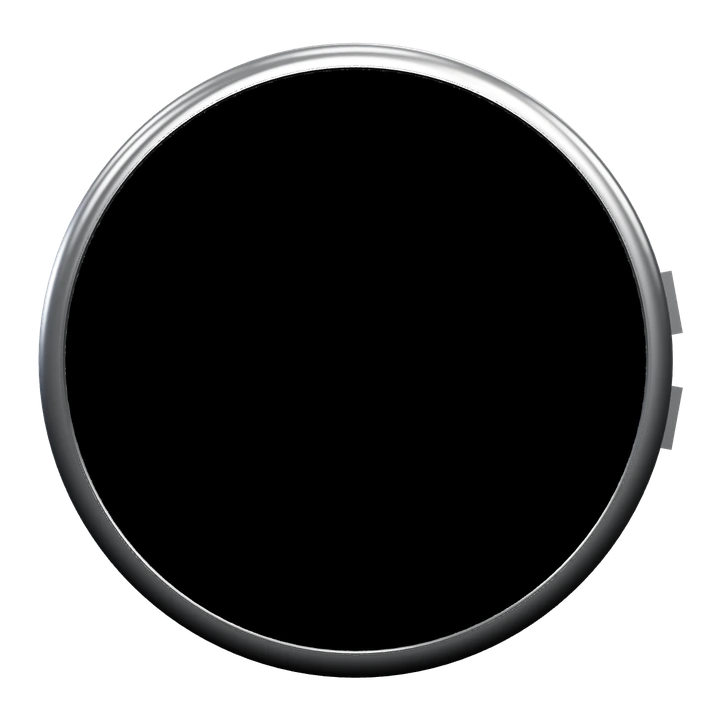
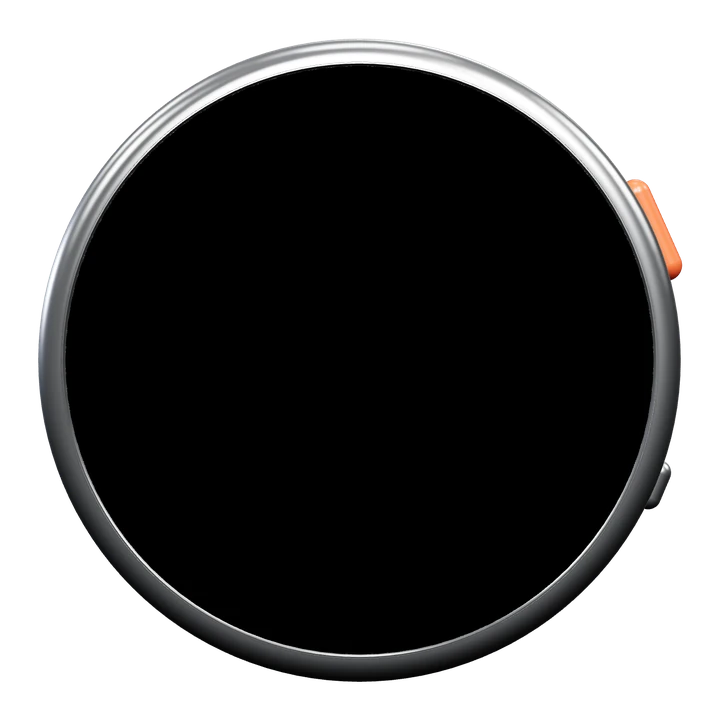
Publish meetbud.app (2026-11-04 19:51 UTC)

diff --git a/hero3d.js b/hero3d.js
@@ -5,14 +5,15 @@
  * If WebGL or three.js isn't there, the page keeps its photo (the .phone-photo fallback). */
 import * as THREE from 'three';
 import { RoomEnvironment } from 'three/addons/environments/RoomEnvironment.js';
+import { BUD, buildBud, light } from './bud3d.js?v=1';
 
 const K = window.Bud;
 const host = document.getElementById('phone3d');
 const REDUCED = matchMedia('(prefers-reduced-motion: reduce)').matches;
 
-// the phone, about an iPhone 15 (71.6 x 147.6 x 7.8 mm), and Bud below its camera
+// the phone, about an iPhone 15 (71.6 x 147.6 x 7.8 mm), and Bud below its camera (bud3d.js)
 const PHONE = { w: 71.6, h: 147.6, d: 7.8, r: 11.6, bevel: 1.6 };
-const BUD = { r: 27, d: 9.5, y: -6, screen: 0.905 };
+const BUD_Y = -6;
 
 function roundedRect(w, h, r) {
   const s = new THREE.Shape();
@@ -59,17 +60,8 @@ function start() {
   host.appendChild(renderer.domElement);
 
   const scene = new THREE.Scene();
-  const pmrem = new THREE.PMREMGenerator(renderer);
   // a bright room for the metal; glass and lenses take only a little of it (envMapIntensity)
-  scene.environment = pmrem.fromScene(new RoomEnvironment(), 0.03).texture;
-  const key = new THREE.DirectionalLight(0xffffff, 1.6);
-  key.position.set(140, 180, 260);
-  const rim = new THREE.DirectionalLight(0xdfeaff, 0.9);
-  rim.position.set(-220, 60, -120);
-  // a warm light close to the top right corner: the back glass falls off softly across its length
-  const glow = new THREE.PointLight(0xfff4ea, 26000, 0, 2);
-  glow.position.set(70, 120, 90);
-  scene.add(key, rim, glow, new THREE.HemisphereLight(0xf4f7ff, 0xe9dccb, 0.45));
+  light(THREE, renderer, scene, RoomEnvironment);
 
   const camera = new THREE.PerspectiveCamera(20, 1, 10, 2000);
   camera.position.set(0, 0, 520);
@@ -82,7 +74,6 @@ function start() {
   const bump = new THREE.MeshPhysicalMaterial({ color: 0xbad3e8, roughness: 0.08, metalness: 0, clearcoat: 1, clearcoatRoughness: 0.04, envMapIntensity: 0.9 });
   const ringMetal = new THREE.MeshPhysicalMaterial({ color: 0xc9d6e2, roughness: 0.14, metalness: 1, envMapIntensity: 1.2 });
   const lensGlass = new THREE.MeshPhysicalMaterial({ color: 0x05070b, roughness: 0.03, metalness: 0, clearcoat: 1, clearcoatRoughness: 0.02, envMapIntensity: 0.35 });
-  const budMetal = new THREE.MeshPhysicalMaterial({ color: 0xeef0f2, roughness: 0.24, metalness: 1, envMapIntensity: 1.1 });
 
   /* ------------------------------------------------------------- the phone */
   const phone = new THREE.Group();
@@ -99,7 +90,7 @@ function start() {
     b.position.set(x * (PHONE.w / 2 + 0.3), y, 0);
     phone.add(b);
   }
-  // the camera: a raised square with two lenses, a flash and a mic
+  // the camera: a raised square with two lenses and a flash
   const back = PHONE.d / 2;
   const cam = slab(28.5, 28.5, 7.2, 1.6, 0.5, [bump, bump]);
   cam.position.set(-PHONE.w / 2 + 6 + 14.25, PHONE.h / 2 - 6 - 14.25, back + 0.6);
@@ -115,37 +106,16 @@ function start() {
   }
   const flash = new THREE.Mesh(new THREE.CircleGeometry(2.3, 40), new THREE.MeshPhysicalMaterial({ color: 0xf3efe2, roughness: 0.25, clearcoat: 1 }));
   flash.position.set(cam.position.x + 6.6, cam.position.y + 6.4, back + 1.42);
-  const mic = new THREE.Mesh(new THREE.CircleGeometry(0.7, 24), lensGlass);
-  mic.position.set(cam.position.x - 6.4, cam.position.y - 0.2, back + 1.42);
-  phone.add(flash, mic);
+  phone.add(flash);
 
-  /* ------------------------------------------------------------- Bud */
-  const bud = new THREE.Group();
-  const R = BUD.r, D = BUD.d;
-  // the profile: flat on the phone, a softly curved side, a rounded lip up to the glass
-  const prof = [];
-  prof.push(new THREE.Vector2(0.01, 0));
-  prof.push(new THREE.Vector2(R - 2.2, 0));
-  for (let i = 0; i <= 12; i++) { const a = -Math.PI / 2 + (i / 12) * (Math.PI / 2); prof.push(new THREE.Vector2(R - 2.2 + 2.2 * Math.cos(a), 2.2 + 2.2 * Math.sin(a))); }
-  prof.push(new THREE.Vector2(R, D - 2.4));
-  for (let i = 0; i <= 14; i++) { const a = (i / 14) * (Math.PI / 2); prof.push(new THREE.Vector2(R - 2.4 + 2.4 * Math.cos(a), D - 2.4 + 2.4 * Math.sin(a))); }
-  prof.push(new THREE.Vector2(R * BUD.screen + 0.3, D));
-  prof.push(new THREE.Vector2(R * BUD.screen, D - 0.25));
-  const shell = new THREE.Mesh(new THREE.LatheGeometry(prof, 128), budMetal);
-  shell.rotation.x = Math.PI / 2;
-  bud.add(shell);
-  // its side buttons, like the prototype's
-  for (const a of [-0.18, 0.18]) {
-    const b = new THREE.Mesh(new THREE.BoxGeometry(1.2, 5.4, 2.4), budMetal);
-    b.position.set(Math.cos(a) * (R + 0.35), Math.sin(a) * (R + 0.35), D * 0.55);
-    b.rotation.z = a;
-    bud.add(b);
-  }
+  /* ------------------------------------------------------------- Bud (bud3d.js) */
+  const R = BUD.r;
   // the screen: the live face glows under glossy glass
   const faceHost = document.createElement('div');
-  faceHost.style.cssText = 'position:fixed;left:0;top:0;width:512px;height:512px;opacity:0;pointer-events:none;z-index:-1';
+  // (a 512 px face drawn out of sight: inside a box of no size, so it never widens the page)
+  faceHost.style.cssText = 'position:fixed;left:0;top:0;width:0;height:0;overflow:hidden;opacity:0;pointer-events:none;z-index:-1';
   const faceEl = document.createElement('div');
-  faceEl.style.cssText = 'width:100%;height:100%';
+  faceEl.style.cssText = 'width:512px;height:512px';
   faceHost.appendChild(faceEl);
   document.body.appendChild(faceHost);
   const face = new K.Screen(faceEl, { fps: 60, bloom: true, manual: true });
@@ -158,10 +128,8 @@ function start() {
   const screenMat = new THREE.MeshPhysicalMaterial({ color: 0x000000, emissive: 0xffffff, emissiveMap: tex, emissiveIntensity: 1,
     roughness: 0.04, metalness: 0, clearcoat: 1, clearcoatRoughness: 0.02, envMapIntensity: 0.18 });
   screenMat.toneMapped = false;
-  const screen = new THREE.Mesh(new THREE.CircleGeometry(R * BUD.screen, 96), screenMat);
-  screen.position.z = D - 0.24;
-  bud.add(screen);
-  bud.position.set(0, BUD.y, back);
+  const { group: bud, shell, screen } = buildBud(THREE, screenMat);
+  bud.position.set(0, BUD_Y, back);
   phone.add(bud);
   // where Bud sits on the glass: a soft contact shadow, a little toward the lower left
   const cc = document.createElement('canvas'); cc.width = cc.height = 256;
@@ -171,7 +139,7 @@ function start() {
   cg.fillStyle = cgr; cg.fillRect(0, 0, 256, 256);
   const contact = new THREE.Mesh(new THREE.PlaneGeometry(R * 2.42, R * 2.42),
     new THREE.MeshBasicMaterial({ map: new THREE.CanvasTexture(cc), transparent: true, depthWrite: false }));
-  contact.position.set(0, BUD.y, back + 0.06);
+  contact.position.set(0, BUD_Y, back + 0.06);
   phone.add(contact);
 
   // a soft shadow under it all, as a blurred disc (no ground plane to fight the page's sky)

diff --git a/next.css b/next.css
@@ -59,9 +59,9 @@ p { margin: 0; }
 .nav-links a:not(.pill):hover { color: var(--ink); }
 
 /* ---------------------------------------------------------------- the Bud */
-/* img/bud-3d.webp is Bud rendered from the hero's 3D model (hero3d.js, ?snap=bud), face on; its
- * screen is a circle at (49.359%, 50.034%) with radius 40.329% (img/bud-3d.json), where the live face
- * goes. The shadow is a pseudo-element, so the live canvas isn't filtered every frame. */
+/* img/bud-3d.webp is Bud rendered face on from the hero's own model (bud3d.js, by tools/bud-3d.html);
+ * its screen is a circle at (49.893%, 50.009%) with radius 40.828% (img/bud-3d.json), where the live
+ * face goes. The shadow is a pseudo-element, so the live canvas isn't filtered every frame. */
 .bud {
   --d: 300px;
   position: relative; display: block; flex: none; width: var(--d); aspect-ratio: 1; padding: 0; border: 0;
@@ -73,7 +73,7 @@ p { margin: 0; }
     0 calc(var(--d) * 0.015) calc(var(--d) * 0.03) rgba(30, 28, 24, 0.18);
 }
 .bud-glass {
-  position: absolute; left: 9.03%; top: 9.705%; width: 80.658%; height: 80.658%;
+  position: absolute; left: 9.065%; top: 9.181%; width: 81.656%; height: 81.656%;
   border-radius: 50%; overflow: hidden; background: #000;
 }
 .bud-screen { position: absolute; inset: 1.6%; border-radius: 50%; overflow: hidden; }
@@ -89,8 +89,9 @@ button.bud:active { transform: scale(0.97); }
 
 /* ---------------------------------------------------------------- hero */
 .hero {
-  position: relative; margin: 10px; border-radius: var(--r-xl); overflow: hidden;
-  min-height: min(980px, calc(100svh - 20px)); padding: clamp(96px, 13vh, 140px) var(--pad) 0;
+  /* full width from the top edge (the nav floats on the sky), rounded only where it meets the page */
+  position: relative; margin: 0 0 10px; border-radius: 0 0 var(--r-xl) var(--r-xl); overflow: hidden;
+  min-height: min(990px, calc(100svh - 10px)); padding: clamp(96px, 13vh, 140px) var(--pad) 0;
   display: flex; flex-direction: column; align-items: center; text-align: center;
   background:
     radial-gradient(60% 45% at 50% 98%, rgba(255, 244, 226, 0.95), transparent 70%),
@@ -195,7 +196,7 @@ footer { position: relative; overflow: hidden; padding: 72px 0 0; }
 .peek {
   --pd: clamp(60px, 7.2vw, 112px);
   display: flex; justify-content: center; align-items: flex-start; gap: clamp(10px, 1.5vw, 20px);
-  margin-top: 44px; height: calc(var(--pd) * 0.72);
+  margin-top: 72px; height: calc(var(--pd) * 0.72);
 }
 .peeker { position: relative; flex: none; margin-top: calc(var(--pd) * 0.66 * (1.08 - var(--s))); cursor: pointer;
   transform: translateY(120%); transition: transform 0.75s cubic-bezier(0.34, 1.56, 0.64, 1) calc(var(--i) * 45ms); }
@@ -207,8 +208,11 @@ footer { position: relative; overflow: hidden; padding: 72px 0 0; }
 }
 .peeker:nth-child(odd) .bud { animation-direction: alternate-reverse; }
 @keyframes peekbob { from { transform: translateY(3%) rotate(-4deg); } to { transform: translateY(-5%) rotate(4deg); } }
-.peeker:hover .bud, .peeker.hi .bud { translate: 0 -24%; }
-.peeker:hover + .peeker .bud, .peeker:has(+ .peeker:hover) .bud { translate: 0 -7%; }
+.peeker:hover .bud { translate: 0 -42%; }
+.peeker:hover + .peeker .bud, .peeker:has(+ .peeker:hover) .bud { translate: 0 -10%; }
+/* one says hi: up about half its height, a little past and back, a moment there, then down */
+.peeker.hi { animation: peekhi 2s cubic-bezier(0.3, 0.9, 0.4, 1); }
+@keyframes peekhi { 0% { translate: 0 0; } 20% { translate: 0 -56%; } 30% { translate: 0 -48%; } 78% { translate: 0 -48%; } 100% { translate: 0 0; } }
 .peeker.hop { animation: peekhop 0.62s cubic-bezier(0.3, 0.9, 0.4, 1); }
 @keyframes peekhop { 40% { translate: 0 -46%; } 70% { translate: 0 -10%; } }
 @media (prefers-reduced-motion: reduce) { .peeker .bud { animation: none; } .peeker { transition: none; } }
@@ -224,7 +228,7 @@ footer { position: relative; overflow: hidden; padding: 72px 0 0; }
 
 /* ---------------------------------------------------------------- phones */
 @media (max-width: 860px) {
-  .peek { --pd: 64px; height: calc(var(--pd) * 0.82); margin-top: 32px; }
+  .peek { --pd: 64px; height: calc(var(--pd) * 0.82); margin-top: 52px; }
   .nav-links a:not(.pill) { display: none; }
   .hero { min-height: auto; padding-top: 92px; }
   .hero h1 { max-width: 10ch; }

diff --git a/bud3d.js b/bud3d.js
@@ -1,0 +1,52 @@
+/* Bud in 3D (three.js), shared by the hero (hero3d.js) and by the picture of Bud the rest of the page
+ * uses (tools/bud-3d.html renders img/bud-3d.webp from this): the metal shell, the side buttons and
+ * the screen, and the studio light they are shown in. Sizes are in millimeters; Bud faces +z. */
+
+export const BUD = { r: 27, d: 9.5, screen: 0.905 };
+
+/** The room and lights the hero uses: a bright room for the metal, a key, a rim and a warm glow. */
+export function light(THREE, renderer, scene, RoomEnvironment) {
+  const pmrem = new THREE.PMREMGenerator(renderer);
+  scene.environment = pmrem.fromScene(new RoomEnvironment(), 0.03).texture;
+  const key = new THREE.DirectionalLight(0xffffff, 1.6);
+  key.position.set(140, 180, 260);
+  const rim = new THREE.DirectionalLight(0xdfeaff, 0.9);
+  rim.position.set(-220, 60, -120);
+  // a warm light close to the top right corner: glossy surfaces fall off softly across their length
+  const glow = new THREE.PointLight(0xfff4ea, 26000, 0, 2);
+  glow.position.set(70, 120, 90);
+  scene.add(key, rim, glow, new THREE.HemisphereLight(0xf4f7ff, 0xe9dccb, 0.45));
+}
+
+/** Bud: returns { group, shell, screen }. `screenMat` is the screen's material (the live face, or black). */
+export function buildBud(THREE, screenMat) {
+  const R = BUD.r, D = BUD.d;
+  const metal = new THREE.MeshPhysicalMaterial({ color: 0xeef0f2, roughness: 0.24, metalness: 1, envMapIntensity: 1.1 });
+  // the talk button's color: press it to talk, like a walkie-talkie's
+  const talk = new THREE.MeshPhysicalMaterial({ color: 0xff6a3d, roughness: 0.34, metalness: 0.05, clearcoat: 0.9, clearcoatRoughness: 0.18, envMapIntensity: 0.7 });
+  const group = new THREE.Group();
+  // the profile: flat on the phone, a softly curved side, a rounded lip up to the glass
+  const prof = [];
+  prof.push(new THREE.Vector2(0.01, 0));
+  prof.push(new THREE.Vector2(R - 2.2, 0));
+  for (let i = 0; i <= 12; i++) { const a = -Math.PI / 2 + (i / 12) * (Math.PI / 2); prof.push(new THREE.Vector2(R - 2.2 + 2.2 * Math.cos(a), 2.2 + 2.2 * Math.sin(a))); }
+  prof.push(new THREE.Vector2(R, D - 2.4));
+  for (let i = 0; i <= 14; i++) { const a = (i / 14) * (Math.PI / 2); prof.push(new THREE.Vector2(R - 2.4 + 2.4 * Math.cos(a), D - 2.4 + 2.4 * Math.sin(a))); }
+  prof.push(new THREE.Vector2(R * BUD.screen + 0.3, D));
+  prof.push(new THREE.Vector2(R * BUD.screen, D - 0.25));
+  const shell = new THREE.Mesh(new THREE.LatheGeometry(prof, 128), metal);
+  shell.rotation.x = Math.PI / 2;
+  group.add(shell);
+  // its side buttons, well apart: the long colored talk button above, a small metal one below
+  for (const [a, len, rad, mat] of [[0.42, 9.2, 1.35, talk], [-0.4, 4.4, 1.1, metal]]) {
+    const b = new THREE.Mesh(new THREE.CapsuleGeometry(rad, len - rad * 2, 8, 20), mat);
+    b.position.set(Math.cos(a) * (R + 0.15), Math.sin(a) * (R + 0.15), D * 0.52);
+    b.rotation.z = a;
+    group.add(b);
+  }
+  // the screen, just under the lip
+  const screen = new THREE.Mesh(new THREE.CircleGeometry(R * BUD.screen, 96), screenMat);
+  screen.position.z = D - 0.24;
+  group.add(screen);
+  return { group, shell, screen };
+}

diff --git a/next.js b/next.js
@@ -145,8 +145,8 @@
       const b = mount(w.firstChild, cfg, { fps: 24, follow: true });
       const feel = (st, ms) => { b.scr.set({ state: st }); clearTimeout(b.t); b.t = setTimeout(() => b.scr.set({ state: 'idle' }), ms); };
       w.addEventListener('pointerenter', () => feel('love', 1500));
-      w.addEventListener('click', () => { w.classList.remove('hop'); void w.offsetWidth; w.classList.add('hop'); feel('love', 1800); track('footer_bud', { look: name }); });
-      w.addEventListener('animationend', (e) => { if (e.animationName === 'peekhop') w.classList.remove('hop'); });
+      w.addEventListener('click', () => { w.classList.remove('hop', 'hi'); void w.offsetWidth; w.classList.add('hop'); feel('love', 1800); track('footer_bud', { look: name }); });
+      w.addEventListener('animationend', (e) => { if (e.animationName === 'peekhop') w.classList.remove('hop'); if (e.animationName === 'peekhi') w.classList.remove('hi'); });
       return { w, feel };
     });
     // they pop up when the footer shows, and while it does, one on screen pops up to say hi now and then
@@ -157,11 +157,10 @@
       clearInterval(hi);
       if (!on || REDUCED) return;
       hi = setInterval(() => {
-        const seen = crowd.filter((c) => { const r = c.w.getBoundingClientRect(); return r.left > 0 && r.right < innerWidth && !c.w.matches(':hover'); });
+        const seen = crowd.filter((c) => { const r = c.w.getBoundingClientRect(); return r.left > 0 && r.right < innerWidth && !c.w.matches(':hover') && !c.w.classList.contains('hi') && !c.w.classList.contains('hop'); });
         const c = seen[Math.floor(Math.random() * seen.length)];
         if (!c) return;
-        c.w.classList.add('hi'); c.feel(Math.random() < 0.5 ? 'hello' : 'love', 1600);
-        setTimeout(() => c.w.classList.remove('hi'), 1500);
+        c.w.classList.add('hi'); c.feel(Math.random() < 0.5 ? 'hello' : 'love', 1800);
       }, 2200);
     }, { threshold: 0.15 }).observe(peek);
   }

diff --git a/index.html b/index.html
@@ -19,9 +19,9 @@
 <link rel="preconnect" href="https://fonts.googleapis.com">
 <link rel="preconnect" href="https://fonts.gstatic.com" crossorigin>
 <link rel="stylesheet" href="https://fonts.googleapis.com/css2?family=Figtree:wght@400..900&family=Nunito:wght@800..900&display=swap">
-<link rel="stylesheet" href="next.css?v=15">
+<link rel="stylesheet" href="next.css?v=16">
 <link rel="stylesheet" href="scenes.css?v=5">
-<link rel="stylesheet" href="wardrobe.css?v=3">
+<link rel="stylesheet" href="wardrobe.css?v=4">
 <script>
   // the 3D phone needs WebGL 2; without it the page shows the photo instead (hero3d.js)
   try { if (document.createElement('canvas').getContext('webgl2')) document.documentElement.classList.add('js3d'); } catch (e) {}
@@ -60,7 +60,6 @@
 
   <section class="scenes" id="scenes" aria-labelledby="app-title">
     <div class="head">
-      <span class="kicker">The Bud app</span>
       <h2 id="app-title">Gets things done. Brings friends along.</h2>
       <p>Hand real work to your agents, and stay close to the people you love, from one little face.</p>
     </div>
@@ -194,7 +193,6 @@
 
   <section class="block wd" id="wardrobe" aria-labelledby="wd-title">
     <div class="head">
-      <span class="kicker">Make it yours</span>
       <h2 id="wd-title">A friend with a wardrobe.</h2>
       <p>Dress Bud up in the app, mix and match, and find new pieces at places around the world. On birthdays and holidays, Bud dresses up on its own.</p>
     </div>
@@ -455,10 +453,10 @@
 <script src="../lib/device.js"></script>
 <script src="../lib/view3d.js"></script>
 <!-- end of lib/files.json -->
-<script src="next.js?v=13"></script>
+<script src="next.js?v=14"></script>
 <script src="icons.js?v=2"></script>
 <script src="scenes.js?v=6"></script>
 <script src="wardrobe.js?v=5"></script>
-<script type="module" src="hero3d.js?v=18"></script>
+<script type="module" src="hero3d.js?v=20"></script>
 </body>
 </html>

diff --git a/wardrobe.css b/wardrobe.css
@@ -4,7 +4,7 @@
 .wd-room {
   display: grid; grid-template-columns: minmax(0, 1fr) minmax(0, 1.08fr); gap: clamp(24px, 4vw, 56px); align-items: center;
   width: min(1080px, 100% - var(--pad) * 2); margin: 0 auto; padding: clamp(26px, 4vw, 52px);
-  border-radius: var(--r-xl); background: linear-gradient(160deg, #eef3fa 0%, #f7f3ee 60%, #fbf4ea 100%);
+  border-radius: var(--r-xl); background: linear-gradient(160deg, #eef3fa 0%, #f7f3ee 60%, #fbf4ea 100%); overflow: hidden; /* (the halo stays in the card, and off the page edge on phones) */
   box-shadow: inset 0 0 0 1px var(--line);
 }
 
